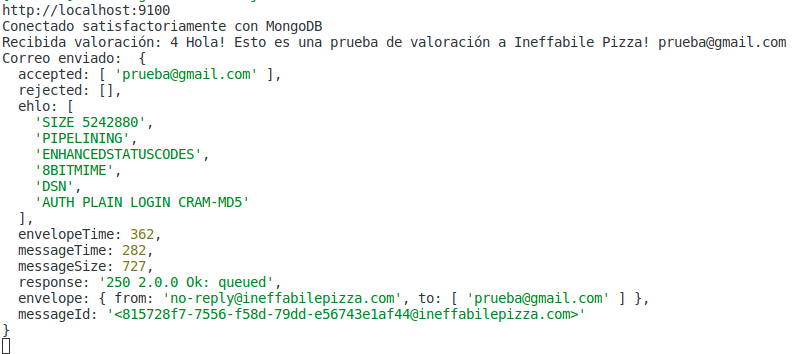
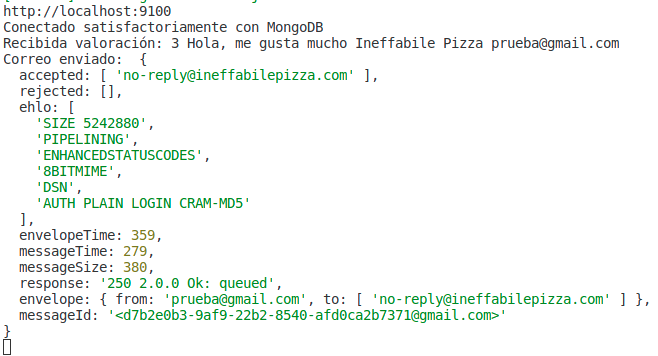
avances en la memoria, cambios en index.js

Changed region(s): [[0.0, 0.0, 1.0, 1.0], [0.9422, 0.8079, 0.9726, 0.8701]]

diff --git a/Backend/index.js b/Backend/index.js
@@ -243,20 +243,14 @@ app.post('/valoraciones', (req, res) => {
 
     // Configura las opciones del correo electrónico
     transporter.sendMail({
-        from: 'no-reply@ineffabilepizza.com', // El correo del remitente
-        to: email,  // El correo del usuario que envió la valoración
-        subject: `Gracias por tu valoración!`,
-        text: `Hola,
-
-    Gracias por tomar el tiempo para valorar nuestro servicio. Tu opinión es muy importante para nosotros y ayuda a mejorar nuestro servicio.
-
-    Tu valoración recibida:
+        from: email, // El correo del remitente
+        to: 'no-reply@ineffabilepizza.com',  // El correo que recibe la valoración
+        subject: `Valoracion de ${email}`,
+        text: 
+        `
     Estrellas: ${rating}
     Comentarios: ${message}
-    
-    Esperamos verte de nuevo pronto.
-    Saludos,
-    Equipo de Ineffabile Pizza`
+    `
     }, (err, info) => {
         if (err) {
             console.error('Error al enviar el correo: ', err);
